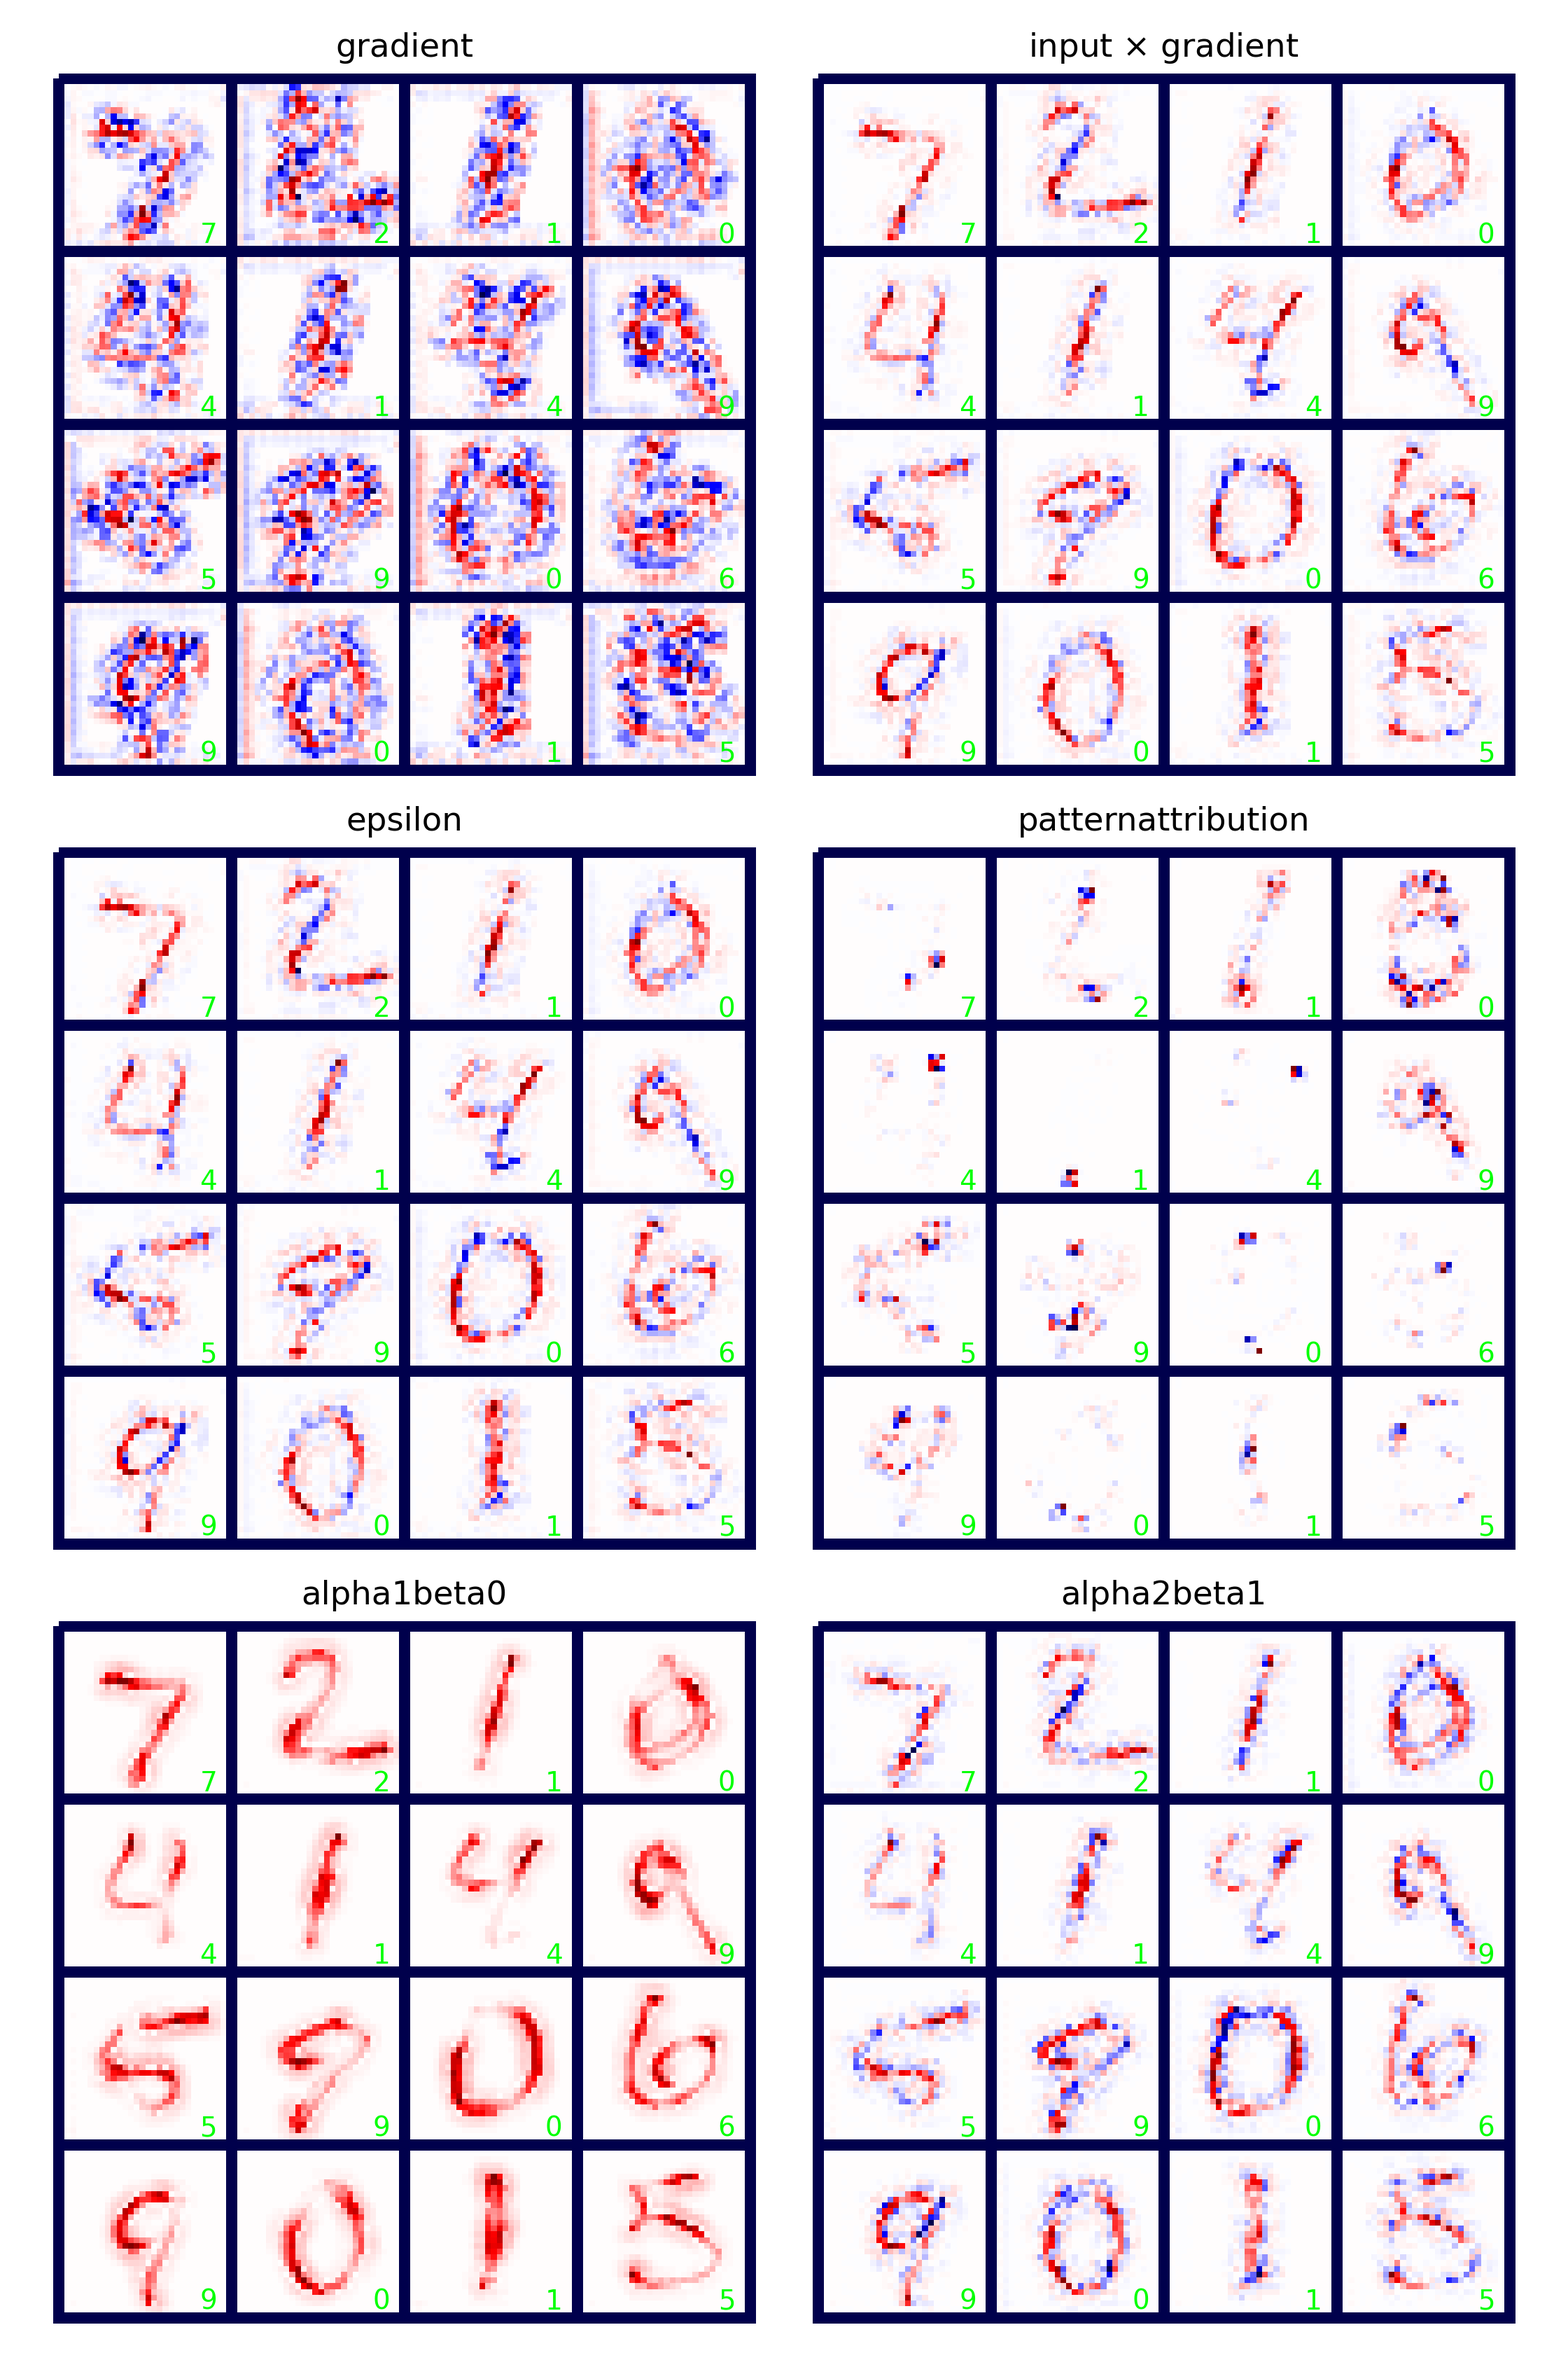
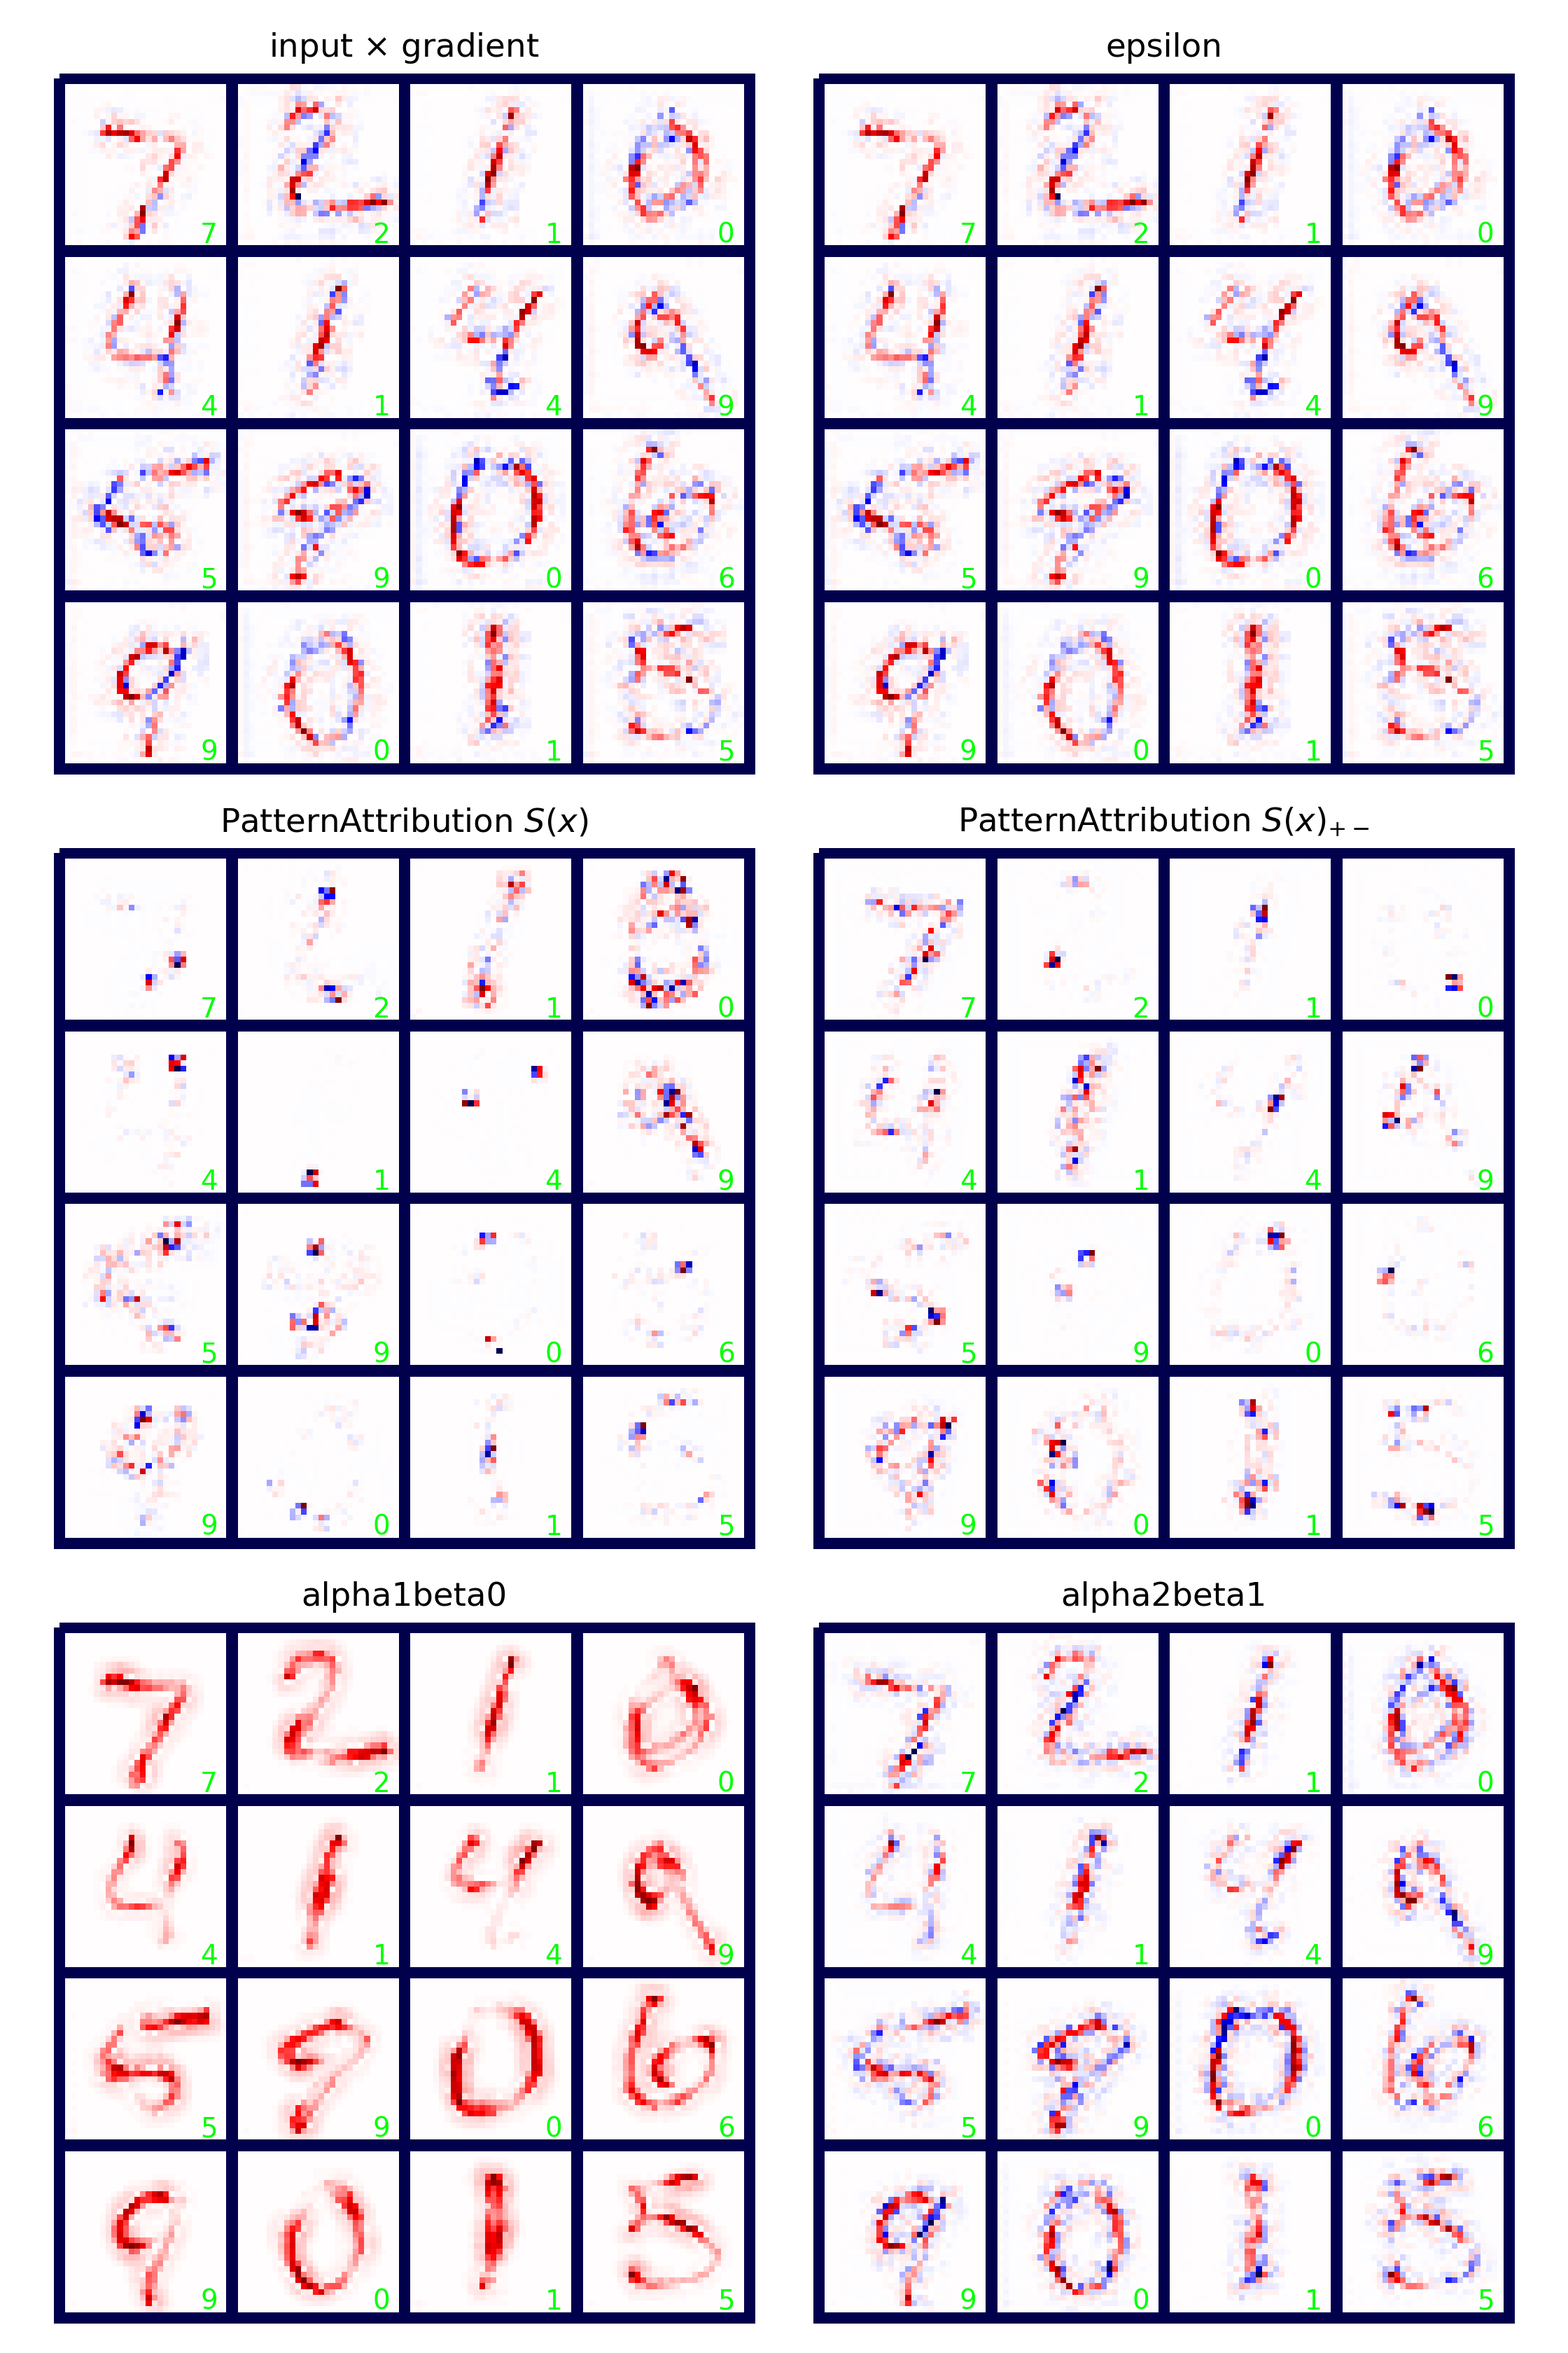
Added positive filter to pattern computetions to allow S(x)+-

diff --git a/lrp/patterns.py b/lrp/patterns.py
@@ -6,11 +6,15 @@ from tqdm import tqdm
 def safe_divide(a, b):
     return a / (b + (b==0).float())
 
-def prod(module, input, output):
+def prod(module, input, output, mask_fn):
+    mask = mask_fn(output).float()
+    output_ = output * mask
+
     if isinstance(module, torch.nn.Linear):
-        return input, output, input.t() @ output, module.weight, lambda w: w.t()
+        return input.t() @ mask, output, input.t() @ output_, module.weight, lambda w: w.t()
 
     elif isinstance(module, torch.nn.Conv2d): 
+
         p1, p2 = module.padding
         s1, s2 = module.stride
         k1, k2 = module.kernel_size
@@ -22,22 +26,28 @@ def prod(module, input, output):
         input = input.permute(1, 4, 5, 0, 2, 3).contiguous() 
         input = input.view( c * k1 * k2, -1) # [ c*kh*kw, bs*h*w ]
 
-        # [ bs, c_out, h, w ]
-        output = output.permute(0, 2, 3, 1).contiguous()
+        def reshape_output(o):
+            o = o.permute(0, 2, 3, 1).contiguous()
+            return o.view(-1, module.out_channels)
 
+        # [ bs, c_out, h, w ]
+        # output_ = output_.permute(0, 2, 3, 1).contiguous()
         # [ bs*h*w, c_out ]
-        output = output.view(-1, module.out_channels)
-        return input.t(), output, input @ output, module.weight.view(module.out_channels, -1), lambda w: w.view(module.weight.shape)
+        # output = output.view(-1, module.out_channels)
+        output_ = reshape_output(output_)
+        output  = reshape_output(output)
+        mask    = reshape_output(mask)
+        return input @ mask, output, input @ output_, module.weight.view(module.out_channels, -1), lambda w: w.view(module.weight.shape)
     else:
         raise NotImplmentedError()
 
-@torch.no_grad()
-def fit_patternnet(model, train_loader, max_iter=None):
+def _fit_pattern(model, train_loader, max_iter, mask_fn = lambda y: torch.ones_like(y)):
     stats_in    = [] 
     stats_out   = []
     stats_prod  = []
     weights     = []
-    cnt   = 0
+    cnt         = 0
+    cnt_all     = 0
 
     first = True
     for b, (x, _) in enumerate(tqdm(train_loader)): 
@@ -50,32 +60,35 @@ def fit_patternnet(model, train_loader, max_iter=None):
                 x = y.clone()
                 continue
             
-            x_, y_, xy_prod, w, w_fn = prod(m, x, y)
+            x_, y_, xy_prod, w, w_fn = prod(m, x, y, mask_fn)
+
             if first:
-                stats_in.append(x_.clone().sum(0))
-                stats_out.append(y_.clone().sum(0))
+                stats_in.append(x_)
+                stats_out.append(y_.sum(0)) # Use all y
                 stats_prod.append(xy_prod)
                 weights.append((w, w_fn))
             else:
-                stats_in[i] += x_.sum(0)
-                stats_out[i] += y_.sum(0)
-                stats_prod[i] += xy_prod
+                stats_in[i]     += x_
+                stats_out[i]    += y_.sum(0)
+                stats_prod[i]   += xy_prod
 
             x = y.clone()
-            cnt += x.size(0)
+            cnt += x_.size(0)
+            cnt_all += x.size(0)
             i += 1
             
         first =False
         if max_iter is not None and b == max_iter: break
 
-    mu_x = [x / cnt for x in stats_in]
-    mu_y = [y / cnt for y in stats_out]
-    mu_xy = [xy / cnt for xy in stats_prod]
+    mu_x =  [x  / cnt     for x  in stats_in]
+    mu_y =  [y  / cnt_all for y  in stats_out]
+    mu_xy = [xy / cnt     for xy in stats_prod]
 
     def pattern(x_, y_, xy_, W2d):
         # W2d: [out, in]
         W, w_fn = W2d
-        ExEy = x_.view(-1, 1) * y_.view(1, -1)
+        # ExEy = x_.view(-1, 1) * y_.view(1, -1)
+        ExEy = x_ * y_
         
         cov_xy = xy_ - ExEy # [in, out]
         w_cov_xy = torch.diag(W @ cov_xy) # [out,]
@@ -86,6 +99,15 @@ def fit_patternnet(model, train_loader, max_iter=None):
 
     patterns = [pattern(*vars) for vars in zip(mu_x, mu_y, mu_xy, weights)]
     return patterns
-            
+
+
+
+@torch.no_grad()
+def fit_patternnet(model, train_loader, max_iter=None):
+    return _fit_pattern(model, train_loader, max_iter)
+
+@torch.no_grad()
+def fit_patternnet_positive(model, train_loader, max_iter=None):
+    return _fit_pattern(model, train_loader, max_iter, lambda y: y >= 0)
 
 

diff --git a/examples/explain_mnist.py b/examples/explain_mnist.py
@@ -11,7 +11,7 @@ import pathlib
 # no matter where it is run from
 base_path = pathlib.Path(__file__).parent.parent.absolute()
 sys.path.insert(0, base_path.as_posix())
-from lrp.patterns import fit_patternnet # PatternNet patterns
+from lrp.patterns import fit_patternnet, fit_patternnet_positive # PatternNet patterns
 
 # End local imports
 
@@ -82,12 +82,14 @@ def run_and_plot_rule(rule, ax_, title=None, postprocess=None, pattern=None):
     if title is None: title = rule
     plot_attribution(attr, ax_, pred, title)
 
-run_and_plot_rule("gradient", ax[0, 0])
-run_and_plot_rule("gradient", ax[0, 1], title="input $\\times$ gradient", postprocess = lambda attribution: attribution * x)
-run_and_plot_rule("epsilon", ax[1, 0])
+# run_and_plot_rule("gradient", ax[0, 0])
+run_and_plot_rule("gradient", ax[0, 0], title="input $\\times$ gradient", postprocess = lambda attribution: attribution * x)
+run_and_plot_rule("epsilon", ax[0, 1])
 
-patterns = fit_patternnet(model, train_loader, max_iter=pattern_max_iter)
-run_and_plot_rule("patternattribution", ax[1, 1], pattern=patterns)
+patterns_all = fit_patternnet(model, train_loader, max_iter=pattern_max_iter)
+patterns_pos = fit_patternnet_positive(model, train_loader, max_iter=pattern_max_iter)
+run_and_plot_rule("patternattribution", ax[1, 0], pattern=patterns_all, title="PatternAttribution $S(x)$")
+run_and_plot_rule("patternattribution", ax[1, 1], pattern=patterns_pos, title="PatternAttribution $S(x)_{+-}$")
 
 run_and_plot_rule("alpha1beta0", ax[2, 0])
 run_and_plot_rule("alpha2beta1", ax[2, 1])
